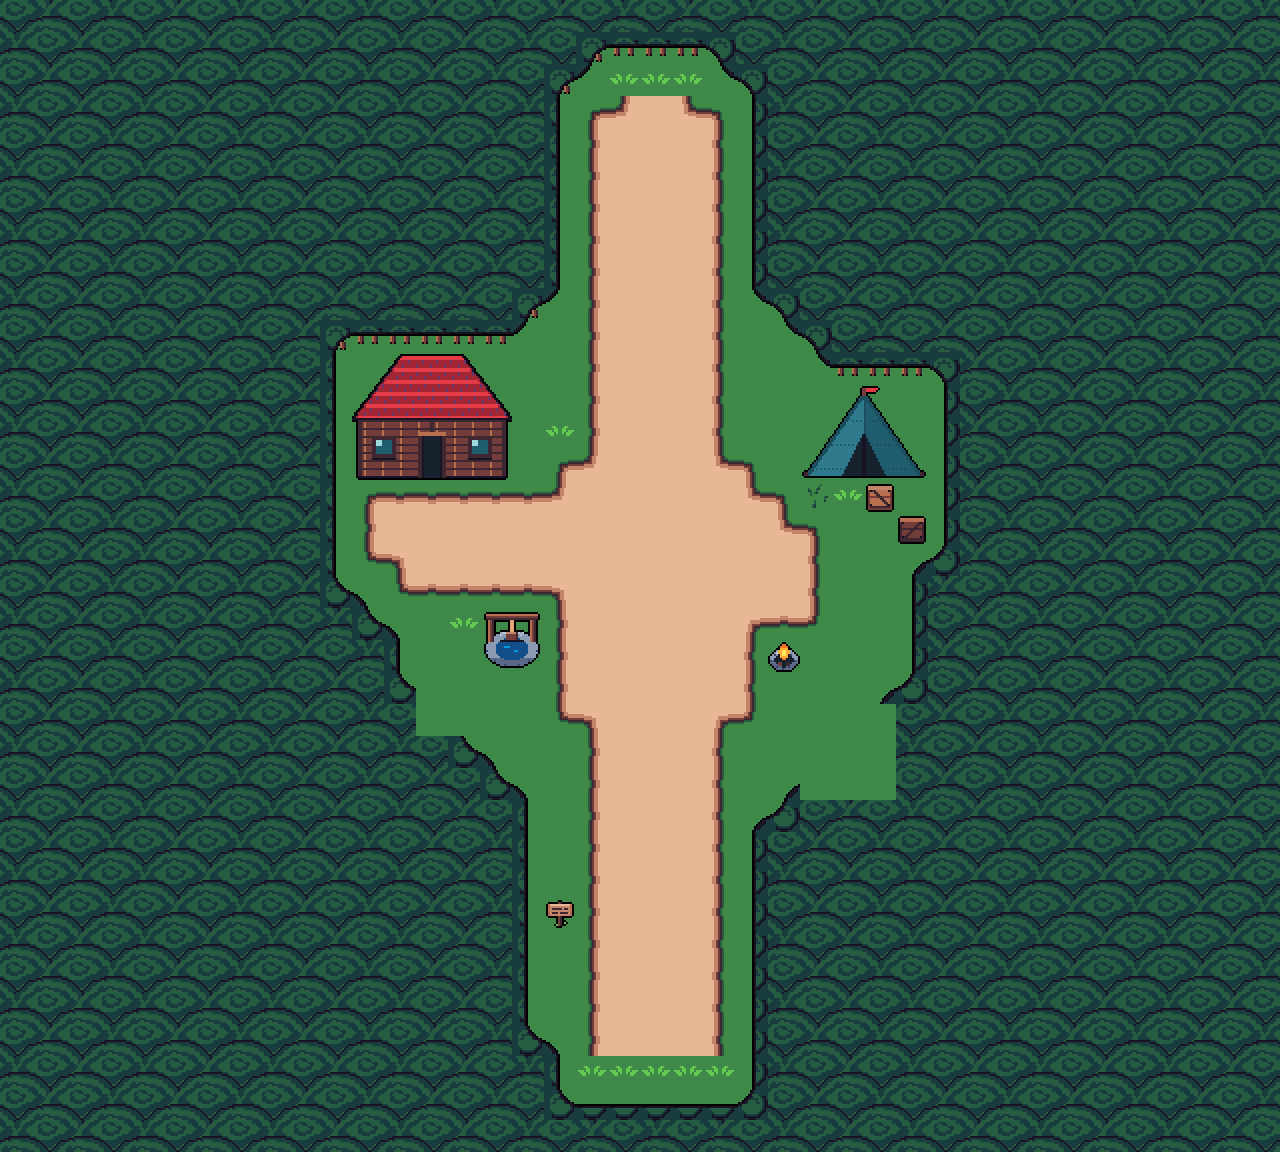
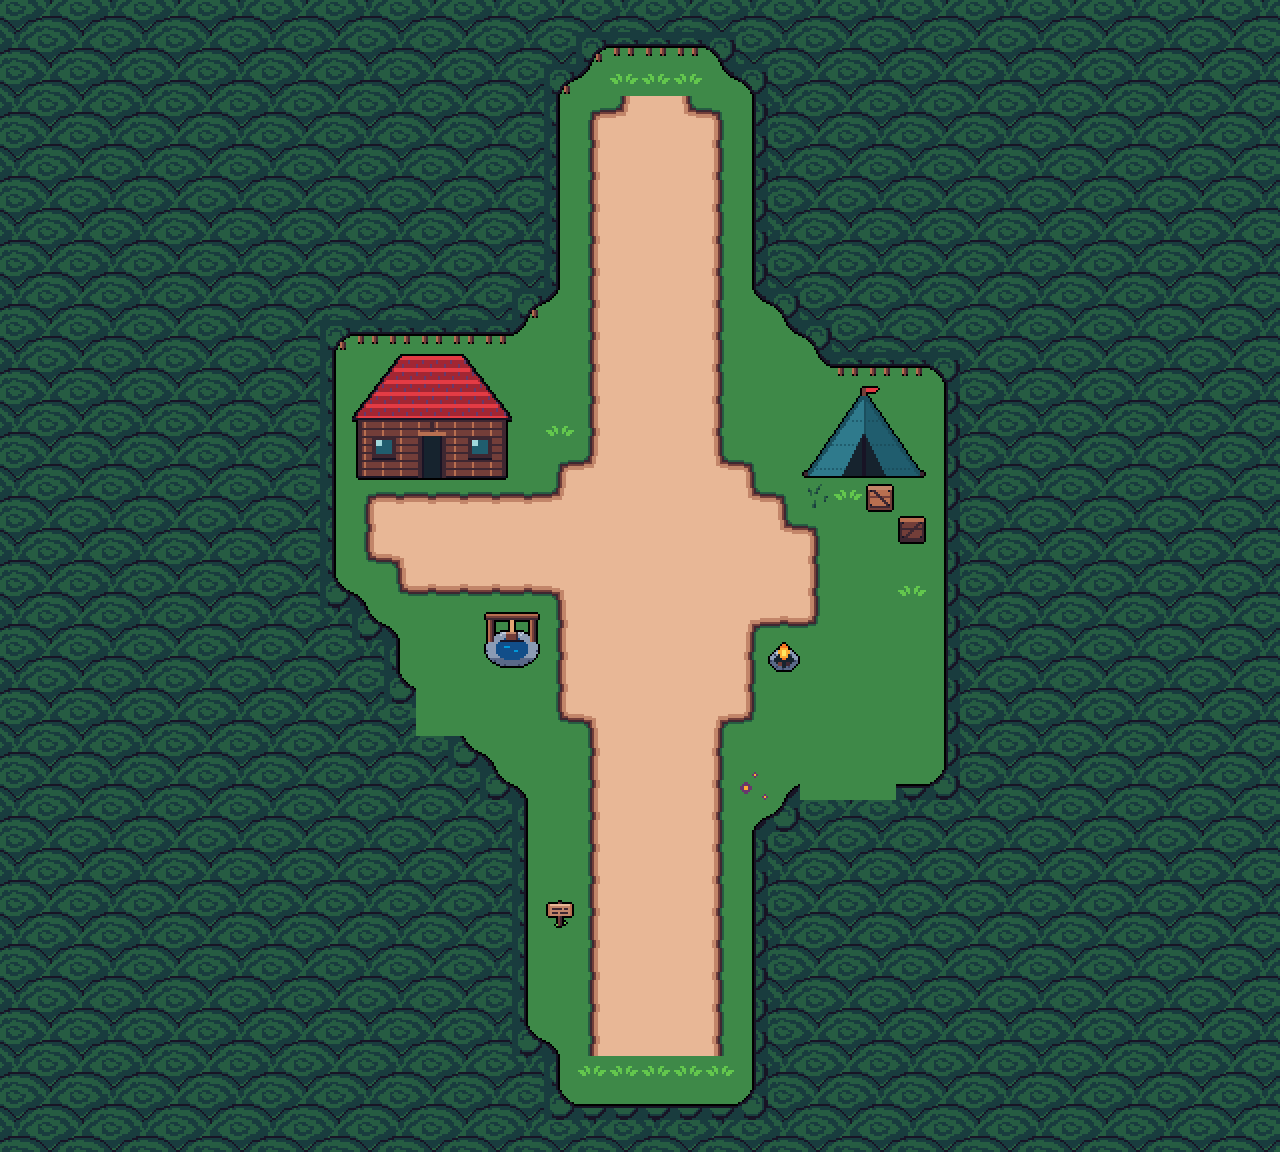
art(map): square off prologue yard's SE rim - kills the bare canopy notch at the hunter's post
The yard circle + tent pad union left a stair-stepped rim SE of the
campfire; the canopy edge traced every notch with flat dark tiles and
read as a torn gap in the woods right where the hunter stands. A
hunter's-clearing pad (x24-29, y17-24, aligned with the tent pad's east
edge) squares the rim so the treeline runs one clean line with crowns
up to the grass. Gate reachability validated by the generator.

Changed region(s): [[0.6875, 0.4688, 0.75, 0.7188]]

diff --git a/docs/index.html b/docs/index.html
@@ -9,7 +9,7 @@
     <link rel="preconnect" href="https://fonts.gstatic.com" crossorigin>
     <link rel="stylesheet" href="https://fonts.googleapis.com/css2?family=Inter:wght@100..900" />
     <link href="https://fonts.googleapis.com/css2?family=Press+Start+2P&display=swap" rel="stylesheet">
-    <script type="module" crossorigin src="/kuesuto/assets/index-e3843a16.js"></script>
+    <script type="module" crossorigin src="/kuesuto/assets/index-dbbc765b.js"></script>
     <link rel="stylesheet" href="/kuesuto/assets/index-0a1577da.css">
   </head>
   <body>